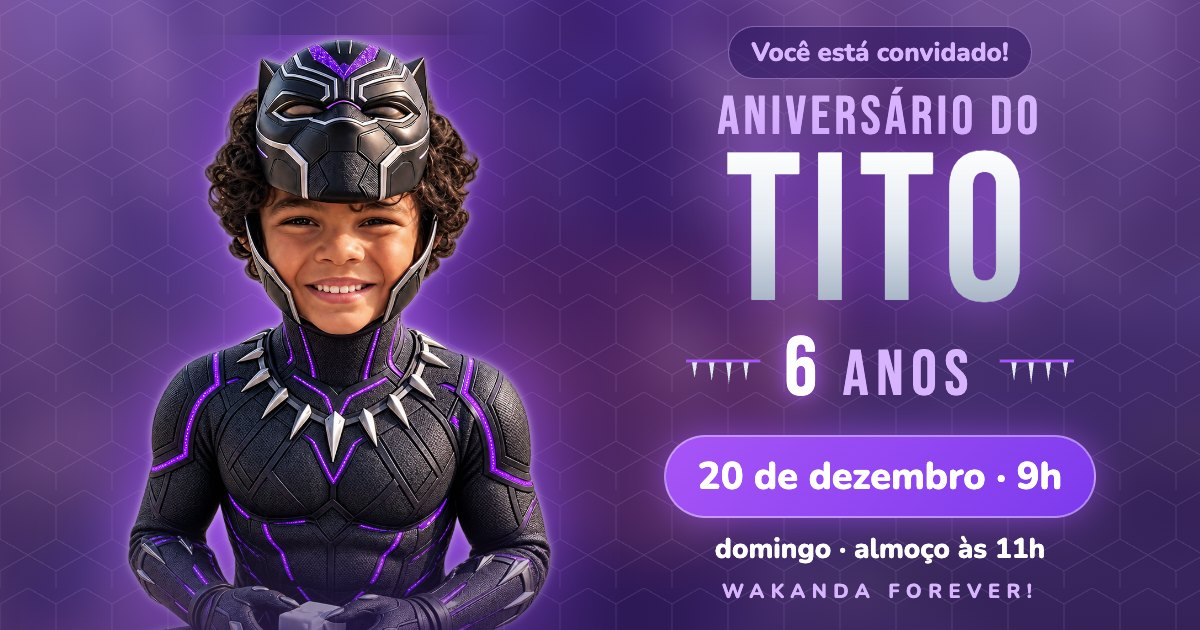
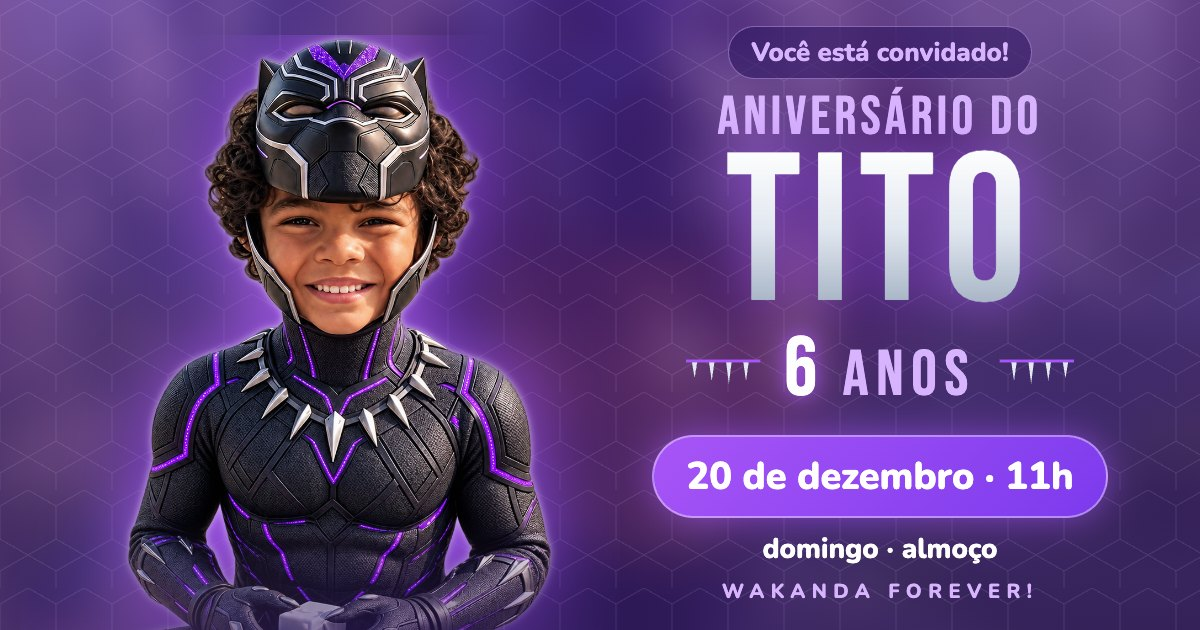
Atualiza informações do convite, ajusta horários e destaca a presença na seção de presentes

Changed region(s): [[0.5242, 0.6937, 0.925, 0.8444], [0.5858, 0.8444, 0.8633, 0.9048]]

diff --git a/index.html b/index.html
@@ -5,9 +5,9 @@
   <meta name="viewport" content="width=device-width, initial-scale=1" />
   <meta name="theme-color" content="#3b1978" />
   <title>Aniversário do Tito · 6 anos</title>
-  <meta name="description" content="Você está convidado! Domingo, 20 de dezembro, às 9h (almoço às 11h). Confirme sua presença. Wakanda Forever!" />
+  <meta name="description" content="Você está convidado! Domingo, 20 de dezembro, às 11h (almoço). Confirme sua presença. Wakanda Forever!" />
   <meta property="og:title" content="Aniversário do Tito · 6 anos" />
-  <meta property="og:description" content="Você está convidado! Domingo, 20 de dezembro, às 9h (almoço às 11h). Confirme sua presença. Wakanda Forever!" />
+  <meta property="og:description" content="Você está convidado! Domingo, 20 de dezembro, às 11h (almoço). Confirme sua presença. Wakanda Forever!" />
   <meta property="og:locale" content="pt_BR" />
   <meta property="og:type" content="website" />
   <!-- TODO: depois de publicar, trocar por URL completa (ex.: https://convite-tito.vercel.app/img/og-convite.jpg).
@@ -103,7 +103,7 @@
       <a class="info info--link" href="#presentes">
         <span class="info__icone"><svg viewBox="0 0 24 24" aria-hidden="true"><rect x="3" y="9" width="18" height="12" rx="2"/><path d="M3 13h18M12 9v12M12 9c-2-4-6-4-6-1.5S9 9 12 9Zm0 0c2-4 6-4 6-1.5S15 9 12 9Z"/></svg></span>
         <span class="info__destaque info__destaque--texto">Sugestões de presentes</span>
-        <span class="info__acao">ver ideias →</span>
+        <span class="info__acao">opcional · ver ideias →</span>
       </a>
     </div>
   </section>
@@ -152,7 +152,8 @@
     <section class="secao wrap" id="presentes" aria-labelledby="t-presentes">
       <div class="reveal">
         <h2 class="secao__titulo" id="t-presentes">Sugestões de presentes</h2>
-        <p class="secao__texto">A sua presença já é o maior presente. Mas, se quiser mimar o <span data-cfg="nome">Tito</span>, aqui vão algumas ideias:</p>
+        <p class="destaque-presenca">💜 O mais importante é a <strong>sua presença</strong>!</p>
+        <p class="secao__texto">Presente é <strong>totalmente opcional</strong>. Mas, se quiser mimar o <span data-cfg="nome">Tito</span>, aqui vão algumas ideias:</p>
         <div class="painel lista-presente">
           <ul id="lista-presentes"></ul>
         </div>

diff --git a/config.js b/config.js
@@ -1,6 +1,5 @@
 // ============================================================
 //  Tudo que você precisa editar no convite está aqui.
-//  Os itens marcados com  TODO  ainda são exemplos — troque!
 // ============================================================
 window.CONVITE = {
   nome: "Tito",
@@ -9,11 +8,11 @@ window.CONVITE = {
   // Data da festa (AAAA-MM-DD)
   data: "2026-12-20",
   // Horário (ex.: "15:00", horário de Brasília). Vazio = "horário a confirmar"
-  hora: "09:00",
-  // Aparece junto do horário (ex.: "almoço às 11h"). Pode deixar vazio.
-  obsHora: "almoço às 11h",
+  hora: "11:00",
+  // Aparece junto do horário (ex.: "almoço"). Pode deixar vazio.
+  obsHora: "almoço",
   // Duração em horas (usada no "Adicionar à agenda" quando tiver horário)
-  duracaoHoras: 5,
+  duracaoHoras: 4,
 
   // Local da festa
   localNome: "Residencial Santos Dumont",
@@ -27,14 +26,15 @@ window.CONVITE = {
   // WhatsApp que recebe as confirmações (DDI + DDD + número, só dígitos)
   whatsapp: "5561993493393",
 
-  // TODO: sugestões de presentes
+  // Sugestões de presentes
   presentes: [
     "Roupa tamanho 8 anos",
-    "Calçado tamanho 30", // TODO: conferir o número
+    "Calçado tamanho 33/34",
     "Brinquedos de super-heróis",
     "Carrinhos e caminhões",
     "Livros e gibis",
     "Jogos de tabuleiro",
+    "Quebra-cabeça",
   ],
 
   // URL do Google Apps Script que salva as respostas na planilha.

diff --git a/style.css b/style.css
@@ -591,3 +591,19 @@ svg { width: 1.25em; height: 1.25em; fill: none; stroke: currentColor; stroke-wi
   .hero__foto { -webkit-mask-image: none; mask-image: none; }
   .hero__conteudo { margin-top: 0; padding: 0; }
 }
+
+/* Presença em destaque na seção de presentes */
+.destaque-presenca {
+  display: inline-block;
+  margin: 16px 0 0;
+  padding: 10px 20px;
+  border-radius: 999px;
+  background: linear-gradient(135deg, rgba(168, 85, 247, 0.85), rgba(124, 58, 237, 0.85));
+  border: 1px solid rgba(255, 255, 255, 0.35);
+  box-shadow: 0 0 24px -4px rgba(168, 85, 247, 0.8);
+  font-weight: 700;
+  font-size: 1.05rem;
+  color: #fff;
+}
+.destaque-presenca strong { font-weight: 800; }
+.secao__texto strong { color: #fff; }
